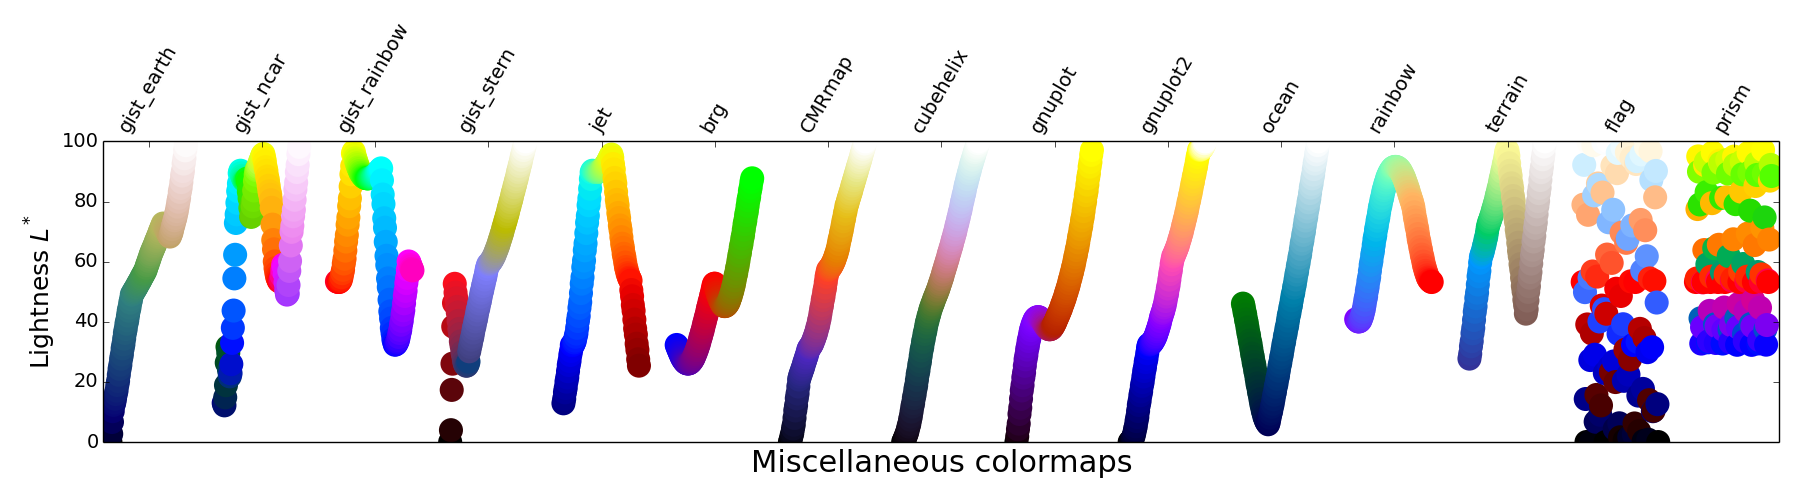
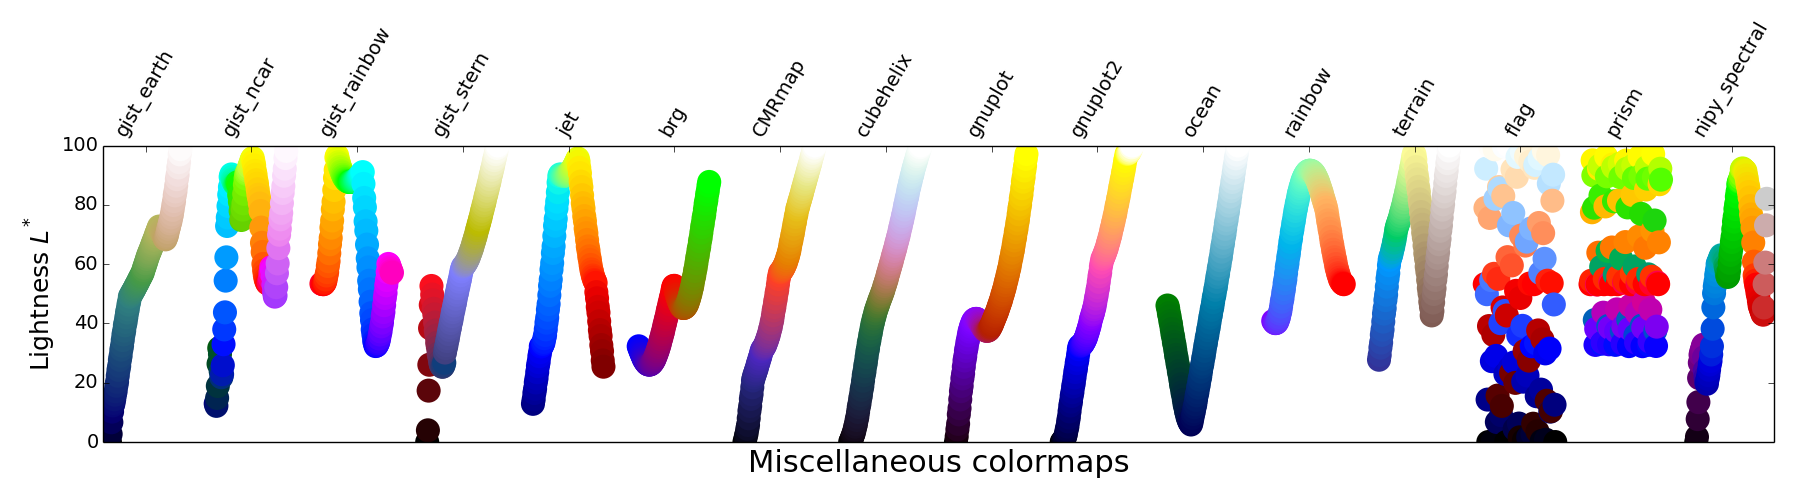
Rename 'spectral' to 'nipy_spectral'.
This is the name used in the current matplotlib, and probably better
reflects its origin.

diff --git a/perceptions/analysis.py b/perceptions/analysis.py
@@ -36,11 +36,11 @@ cmaps = [('Sequential',     ['binary', 'Blues', 'BuGn', 'BuPu', 'gist_yarg',
                              'RdBu', 'RdGy', 'RdYlBu', 'RdYlGn', 'seismic',
                              'Spectral']),
          ('Qualitative',    ['Accent', 'Dark2', 'hsv', 'Paired', 'Pastel1',
-                             'Pastel2', 'Set1', 'Set2', 'Set3', 'spectral']),
+                             'Pastel2', 'Set1', 'Set2', 'Set3']),
          ('Miscellaneous',  ['gist_earth', 'gist_ncar', 'gist_rainbow',
                              'gist_stern', 'jet', 'brg', 'CMRmap', 'cubehelix',
                              'gnuplot', 'gnuplot2', 'ocean', 'rainbow',
-                             'terrain', 'flag', 'prism'])]
+                             'terrain', 'flag', 'prism', 'nipy_spectral'])]
 
 # indices to step through colormap        
 x = np.linspace(0.0, 1.0, 100)
@@ -88,13 +88,13 @@ for cmap_category, cmap_list in cmaps:
         elif cmap_category=='Qualitative':
             dc = 1.3
             ax.scatter(x+j*dc, lab[0,:,0], c=x, cmap=cmap, s=300, linewidths=0.)
-            ax.axis([-0.1,13.1,0,100])
+            ax.axis([-0.1,11.8,0,100])
             locs.append(x[int(x.size/2.)]+j*dc) # store locations for colormap labels
 
         elif cmap_category=='Miscellaneous':
             dc = 1.5
             ax.scatter(x+j*dc, lab[0,:,0], c=x, cmap=cmap, s=300, linewidths=0.)
-            ax.axis([-0.1,22.1,0,100])
+            ax.axis([-0.1,23.6,0,100])
             locs.append(x[int(x.size/2.)]+j*dc) # store locations for colormap labels
     
     # Set up labels for colormaps

diff --git a/perceptions/bw.py b/perceptions/bw.py
@@ -57,11 +57,11 @@ cmaps = [('Sequential',     ['binary', 'Blues', 'BuGn', 'BuPu', 'gist_yarg',
                              'RdBu', 'RdGy', 'RdYlBu', 'RdYlGn', 'seismic',
                              'Spectral']),
          ('Qualitative',    ['Accent', 'Dark2', 'hsv', 'Paired', 'Pastel1',
-                             'Pastel2', 'Set1', 'Set2', 'Set3', 'spectral']),
+                             'Pastel2', 'Set1', 'Set2', 'Set3']),
          ('Miscellaneous',  ['gist_earth', 'gist_ncar', 'gist_rainbow',
                              'gist_stern', 'jet', 'brg', 'CMRmap', 'cubehelix',
                              'gnuplot', 'gnuplot2', 'ocean', 'rainbow',
-                             'terrain', 'flag', 'prism'])]
+                             'terrain', 'flag', 'prism', 'nipy_spectral'])]
 
 x = np.linspace(0.0, 1.0, 100)
 
